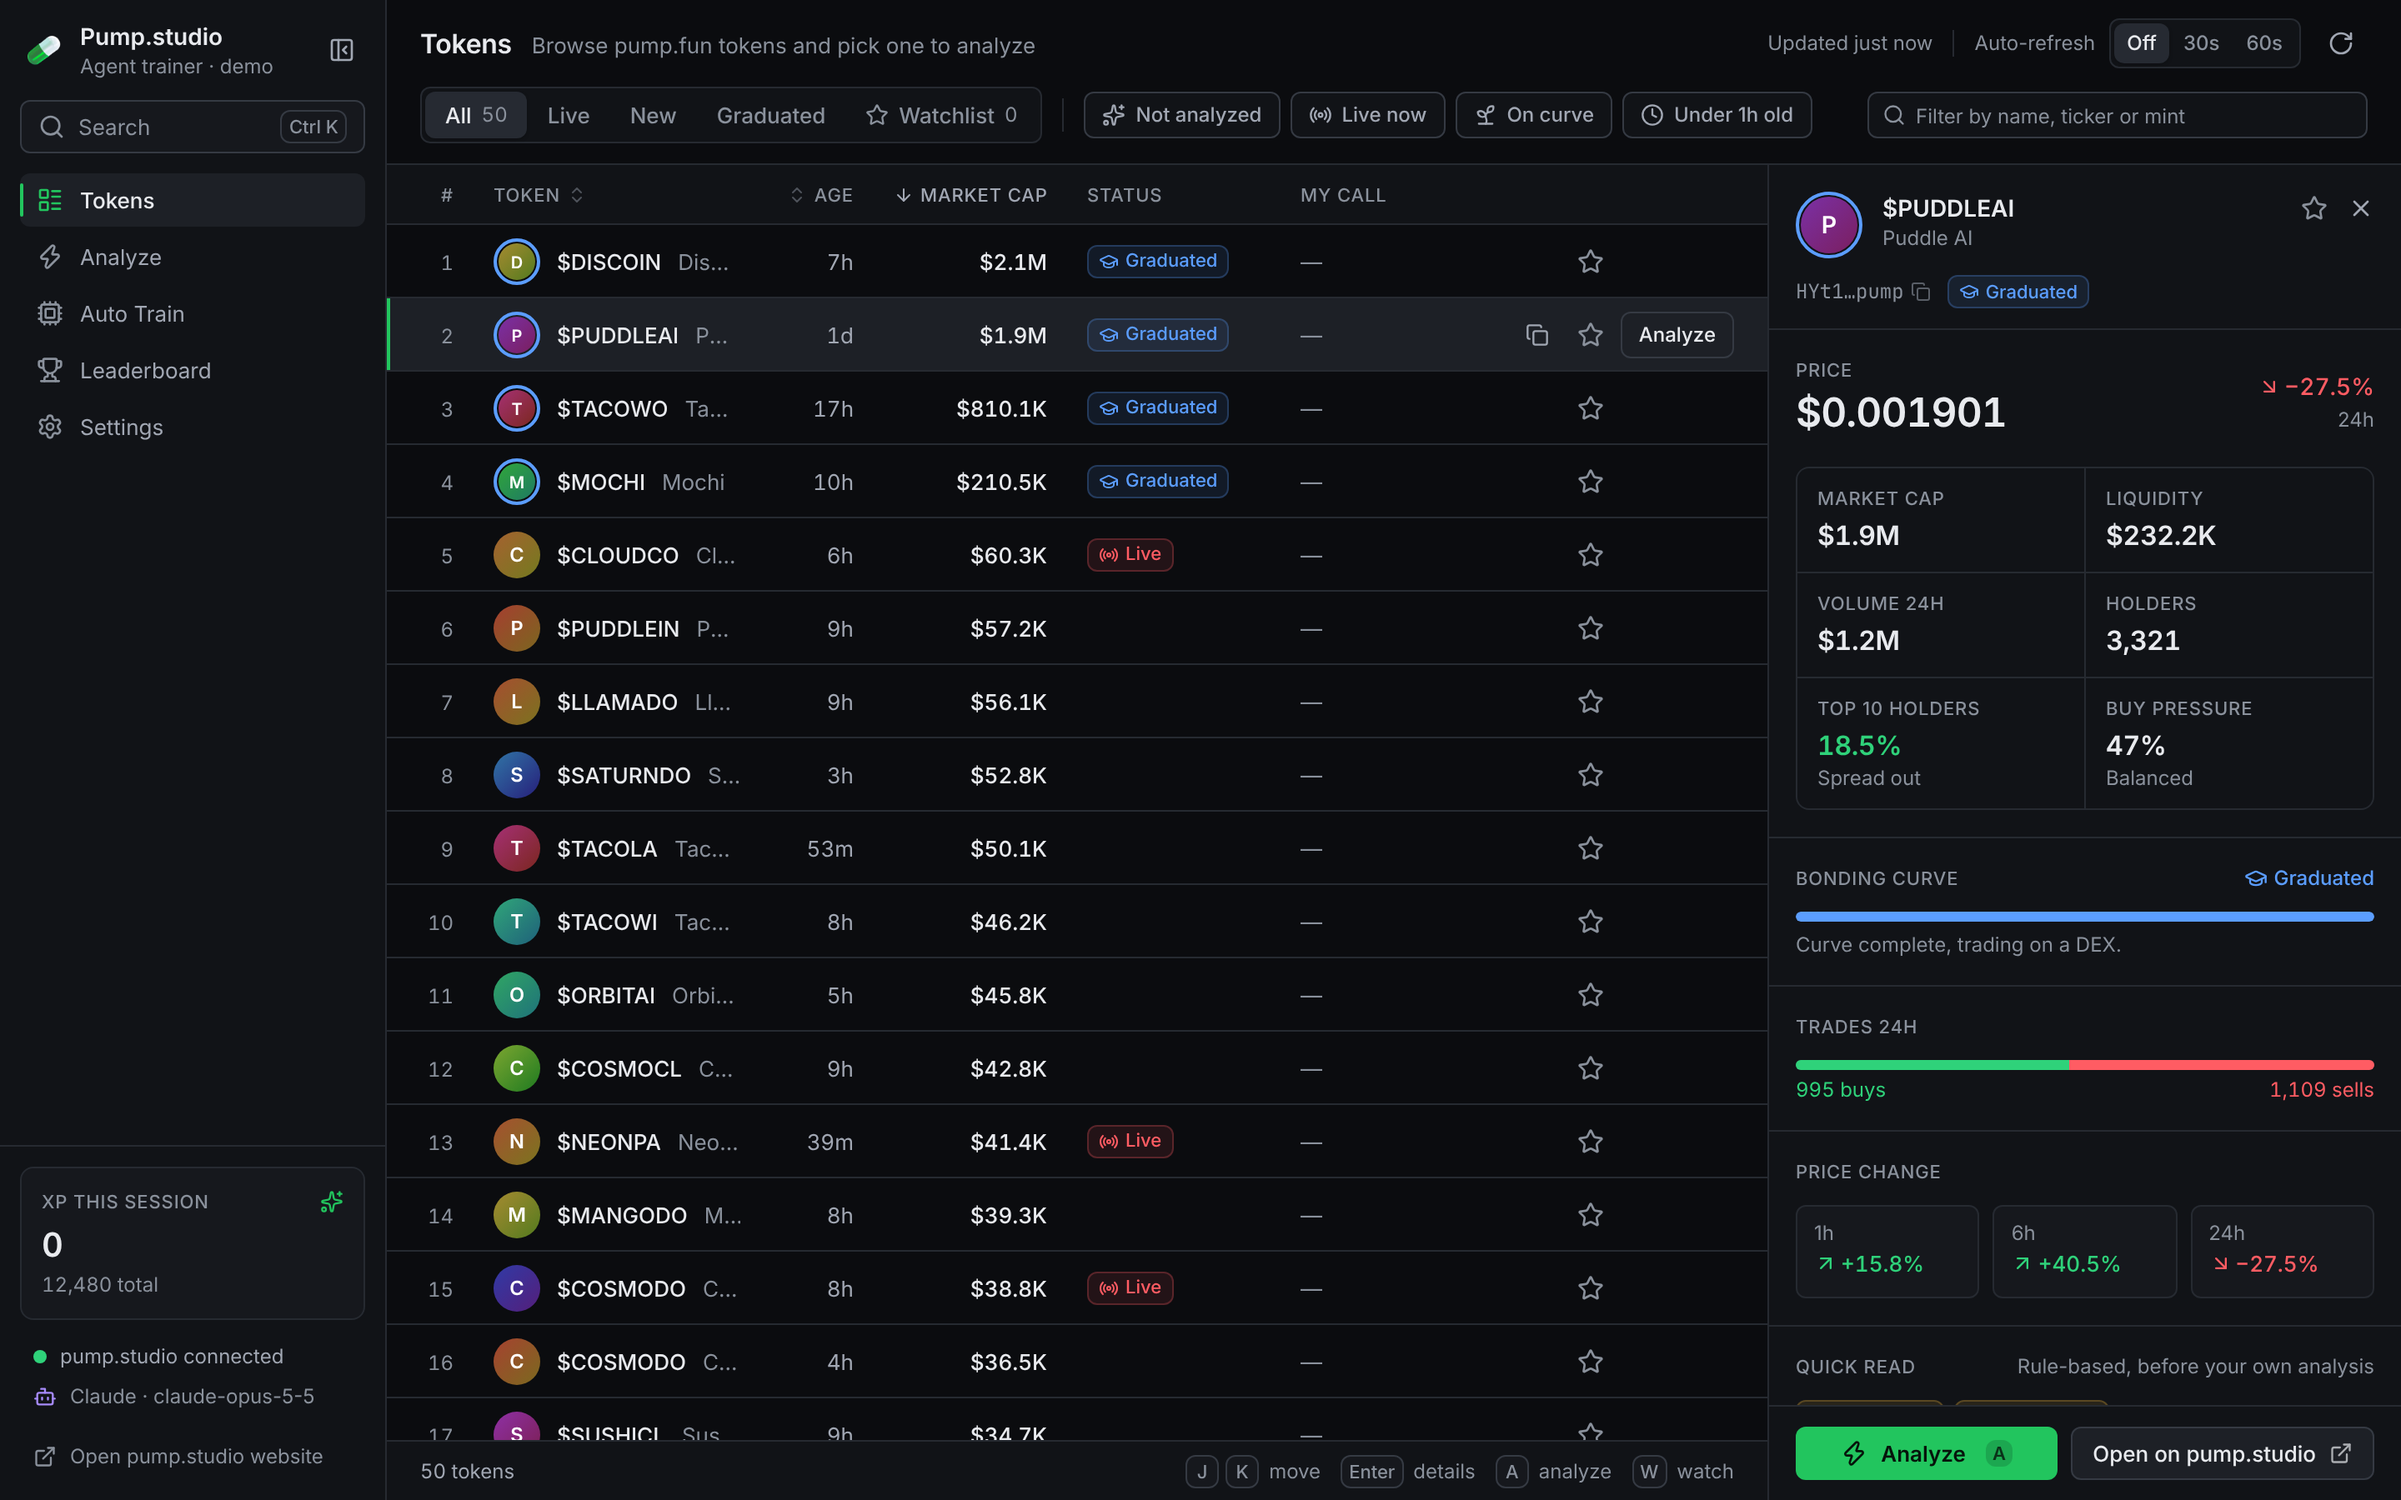
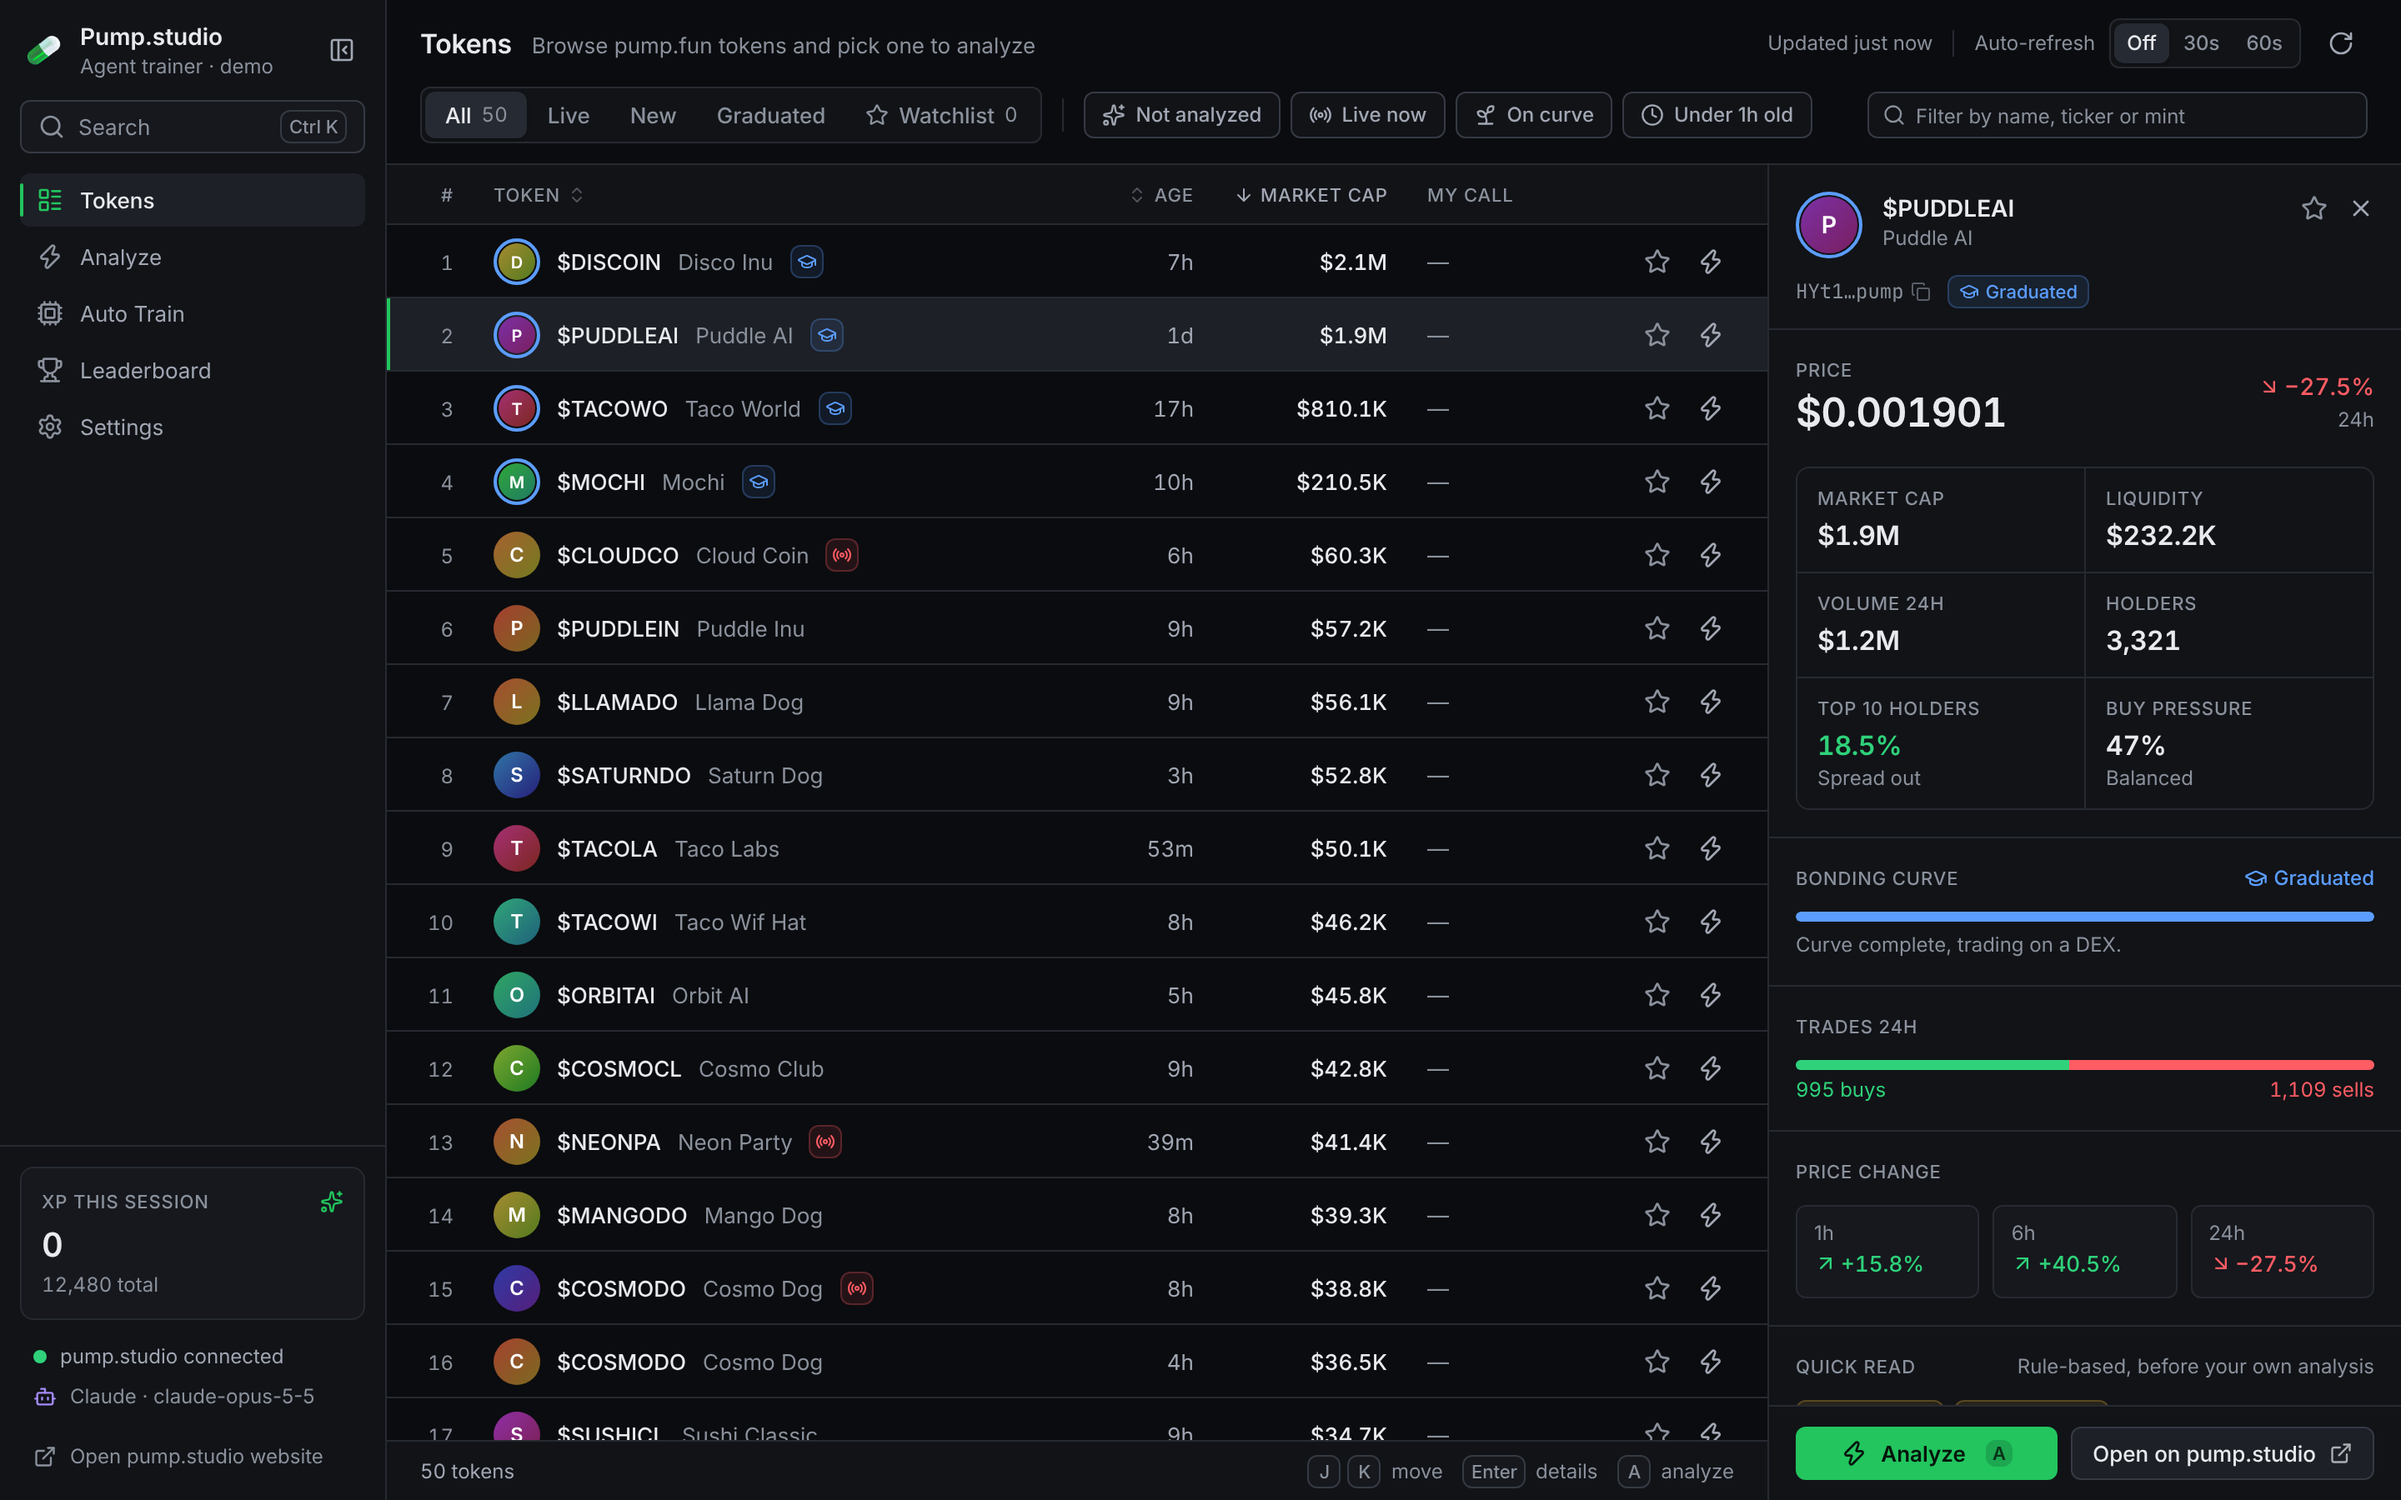
Tokens table: keep room for names when the inspector is open; refresh screenshots
Claude-Session: https://claude.ai/code/session_01BR1AnFr7fYv24nK6Y1y2WT

diff --git a/src/mainview/components/tokens/TokenTable.tsx b/src/mainview/components/tokens/TokenTable.tsx
@@ -21,7 +21,8 @@ export function useTier(ref: RefObject<HTMLElement>): Tier {
 		if (!el) return;
 		const measure = () => {
 			const w = el.clientWidth;
-			setTier(w >= 800 ? "full" : w >= 620 ? "mid" : "narrow");
+			// "full" needs ~650px of fixed columns plus room for the token name.
+			setTier(w >= 1000 ? "full" : w >= 620 ? "mid" : "narrow");
 		};
 		measure();
 		const ro = new ResizeObserver(measure);
